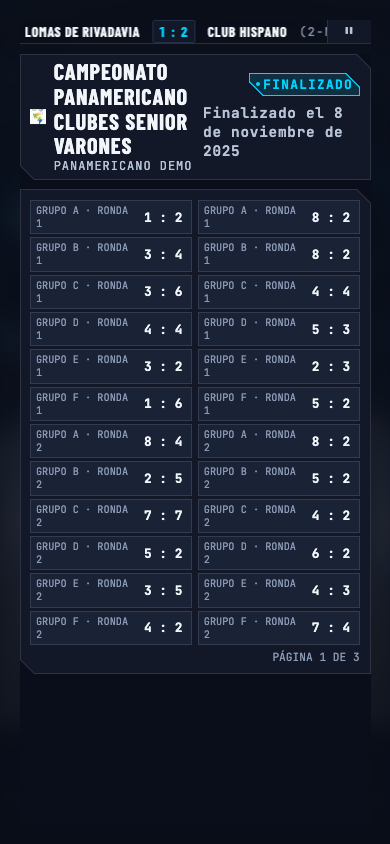
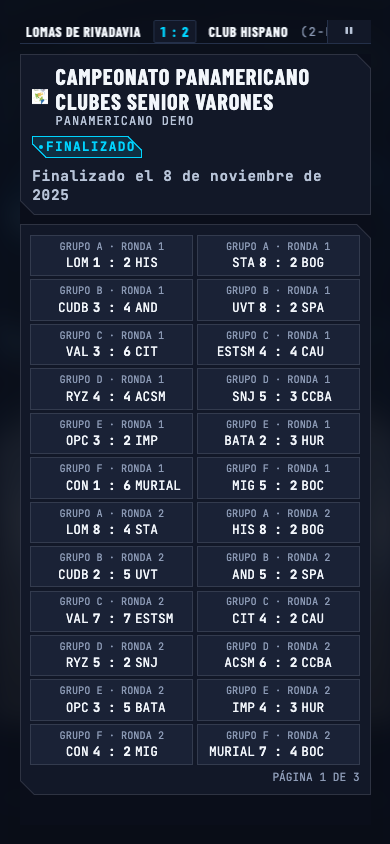
feat(tv): fit the kiosk to a narrow frame and keep the match list paging
The champions stack one under another, the title card stacks, the pinned match shows abbreviations with smaller emblems and a score that stays on one line, each match-list entry puts its zone and round on its own line, and a fixed match view pages whatever the motion preference is.

Changed region(s): [[0.0615, 0.0308, 0.9231, 0.9242]]

diff --git a/apps/web/src/styles/tv-broadcast.css b/apps/web/src/styles/tv-broadcast.css
@@ -1446,3 +1446,70 @@
     height: 9vmin;
   }
 }
+
+/* The abbreviation stands in for the name on a narrow frame; wide frames show the name. */
+.tv-team-side__short {
+  display: none;
+  text-decoration: none;
+}
+
+/*
+ * Narrow or portrait frames: the title card stacks (brand and titles above, status and clock
+ * below) instead of splitting its width in two, the pinned match shows abbreviations, smaller
+ * emblems and a score that stays on one line, and each entry of the match list is two lines.
+ */
+@media (max-width: 768px), (orientation: portrait) {
+  .tv-scorebug {
+    flex-direction: column;
+    align-items: stretch;
+    gap: 1.6vmin;
+    padding: 2.4vmin 3vmin;
+  }
+
+  .tv-scorebug__right {
+    justify-content: flex-start;
+  }
+
+  .tv-match-spotlight__vs-grid {
+    grid-template-columns: minmax(0, 1fr) auto minmax(0, 1fr);
+    gap: 2vmin;
+  }
+
+  .tv-match-spotlight__vs-grid .tv-team-side__emblem-wrap,
+  .tv-match-spotlight__vs-grid .tv-team-side--anchor .tv-team-side__emblem-wrap {
+    width: 64px;
+    height: 64px;
+  }
+
+  .tv-team-side__full {
+    display: none;
+  }
+
+  .tv-team-side__short {
+    display: block;
+    max-width: 100%;
+    font-size: clamp(1.1rem, 5vw, 1.6rem);
+  }
+
+  .tv-score-center__digits {
+    font-size: clamp(2.2rem, 11vw, 3.5rem);
+    letter-spacing: 0;
+    white-space: nowrap;
+  }
+
+  .tv-match-list__entries {
+    gap: 0.8vmin;
+  }
+
+  .tv-match-list__entry {
+    grid-template-columns: minmax(0, 1fr) auto minmax(0, 1fr);
+    row-gap: 0.4vmin;
+    padding: 1vmin 1.2vmin;
+  }
+
+  /* The zone and round take a row of their own, so the sides keep the width of the cell. */
+  .tv-match-list__round {
+    grid-column: 1 / -1;
+    text-align: center;
+  }
+}

diff --git a/apps/web/src/components/tv/TvDashboard.test.tsx b/apps/web/src/components/tv/TvDashboard.test.tsx
@@ -1176,5 +1176,24 @@ describe('TvDashboard pinned match and views', () => {
       act(() => jest.advanceTimersByTime(10_000));
       expect(entries()).toBe(24);
     });
+
+    it('keeps paging a fixed match view when the viewer prefers reduced motion', () => {
+      const original = window.matchMedia;
+      window.matchMedia = ((query: string) => ({
+        matches: query.includes('prefers-reduced-motion'),
+        media: query,
+        addEventListener: () => undefined,
+        removeEventListener: () => undefined,
+      })) as unknown as typeof window.matchMedia;
+      try {
+        renderTv({ initialView: 'matches', matchList });
+
+        expect(screen.getByText('Page 1 of 2')).toBeDefined();
+        act(() => jest.advanceTimersByTime(10_000));
+        expect(screen.getByText('Page 2 of 2')).toBeDefined();
+      } finally {
+        window.matchMedia = original;
+      }
+    });
   });
 });

diff --git a/apps/web/src/components/tv/TvDashboard.tsx b/apps/web/src/components/tv/TvDashboard.tsx
@@ -329,7 +329,11 @@ export function TvDashboard({
   // rotating dashboard pages the list too before it moves to the next section.
   const matchPages = useMemo(() => pageTvMatches(matchList ?? []), [matchList]);
   useEffect(() => {
-    if (prefersReducedMotion || initialView === 'standings') return;
+    if (initialView === 'standings') return;
+    // Paging a list is how a screen with no input reaches its later pages, not decoration, so a
+    // fixed `matches` view pages whatever the motion preference is; only the rotation between
+    // sections is held still by it.
+    if (prefersReducedMotion && initialView !== 'matches') return;
     const interval = setInterval(() => {
       setRail((current) => {
         if (current.tab === 'fixtures' && current.page < matchPages.length - 1) {

diff --git a/apps/web/src/components/tv/TvTeamSide.tsx b/apps/web/src/components/tv/TvTeamSide.tsx
@@ -34,7 +34,21 @@ export function TvTeamSide({
           src={club?.emblemUrl}
         />
       </div>
-      <EntrantName abbreviation={abbreviation} className="tv-team-side__name" fullName={name} />
+      {/* A narrow frame shows the abbreviation instead (the stylesheet swaps them); the name stays the tooltip. */}
+      <EntrantName
+        abbreviation={abbreviation}
+        className={
+          abbreviation === undefined
+            ? 'tv-team-side__name'
+            : 'tv-team-side__name tv-team-side__full'
+        }
+        fullName={name}
+      />
+      {abbreviation !== undefined && (
+        <abbr className="tv-team-side__name tv-team-side__short" title={name}>
+          {abbreviation}
+        </abbr>
+      )}
     </div>
   );
 }
